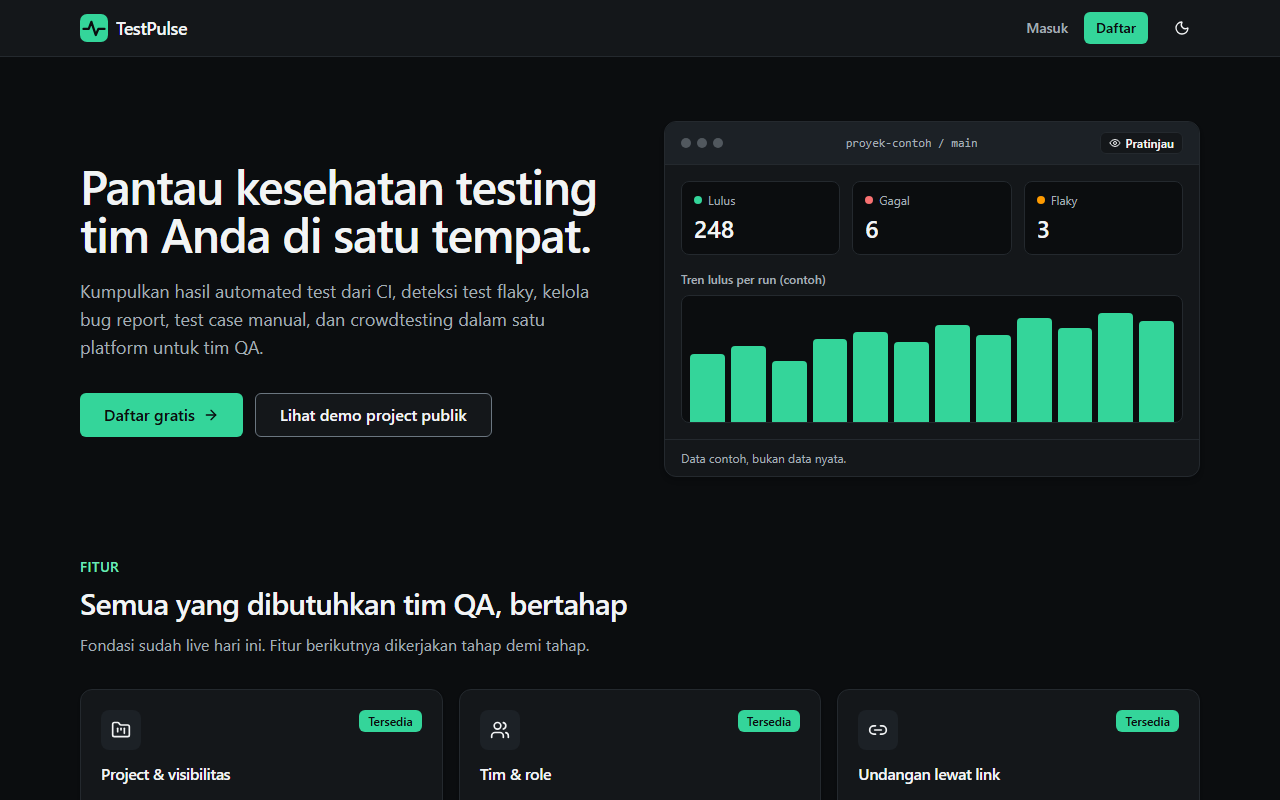
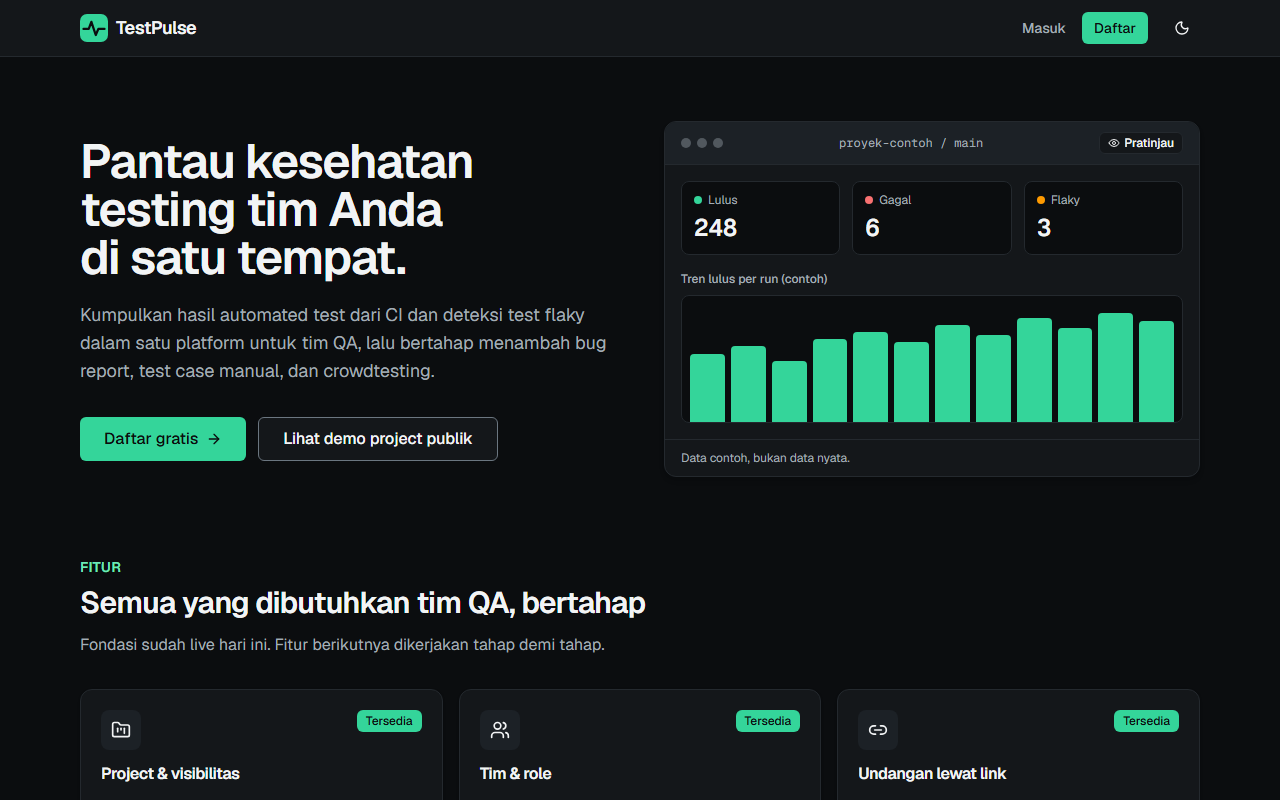
feat(web): self-hosted Geist and Geist Mono fonts

diff --git a/tests/e2e/fonts.spec.ts b/tests/e2e/fonts.spec.ts
@@ -1,0 +1,34 @@
+import { expect, test } from "../support/fixtures.js";
+
+// Font di-host sendiri (@fontsource-variable): file .woff2 disajikan dari origin yang sama,
+// sehingga lolos CSP (`default-src 'self'`) tanpa mengubah header. Gate CSP di fixture ikut membuktikannya.
+test.describe("Tipografi", () => {
+  test("body memakai Geist dan font benar-benar termuat", async ({ page }) => {
+    await page.goto("/login");
+    await expect(page.getByTestId("login-email")).toBeVisible();
+
+    const family = await page.evaluate(() => getComputedStyle(document.body).fontFamily);
+    expect(family).toContain("Geist Variable");
+
+    // Pastikan font (bukan cadangan sistem) memang termuat dari origin sendiri.
+    await expect.poll(() => page.evaluate(async () => {
+      await document.fonts.ready;
+      return document.fonts.check('16px "Geist Variable"');
+    })).toBe(true);
+  });
+
+  test("teks teknis (slug di landing) memakai Geist Mono", async ({ page }) => {
+    await page.goto("/");
+    await expect(page.getByTestId("landing-hero")).toBeVisible();
+
+    const mono = page.getByTestId("landing-hero").locator(".font-mono").first();
+    await expect(mono).toBeVisible();
+    const family = await mono.evaluate((el) => getComputedStyle(el).fontFamily);
+    expect(family).toContain("Geist Mono Variable");
+
+    await expect.poll(() => page.evaluate(async () => {
+      await document.fonts.ready;
+      return document.fonts.check('12px "Geist Mono Variable"');
+    })).toBe(true);
+  });
+});

diff --git a/apps/web/src/index.css b/apps/web/src/index.css
@@ -1,3 +1,7 @@
+/* Font di-host sendiri: file .woff2 ikut ter-build dan disajikan dari origin TestPulse, sehingga lolos CSP
+   (`default-src 'self'`) tanpa Google Fonts. Varian variable = satu file untuk semua ketebalan. */
+@import "@fontsource-variable/geist";
+@import "@fontsource-variable/geist-mono";
 @import "tailwindcss";
 
 @custom-variant dark (&:where(.dark, .dark *));
@@ -80,7 +84,8 @@
   --radius-md: calc(var(--radius) - 2px);
   --radius-lg: var(--radius);
   --radius-xl: calc(var(--radius) + 4px);
-  --font-sans: system-ui, -apple-system, "Segoe UI", Roboto, "Helvetica Neue", Arial, sans-serif;
+  --font-sans: "Geist Variable", system-ui, -apple-system, "Segoe UI", Roboto, "Helvetica Neue", Arial, sans-serif;
+  --font-mono: "Geist Mono Variable", ui-monospace, SFMono-Regular, Menlo, Consolas, "Liberation Mono", monospace;
 }
 
 @layer base {

diff --git a/apps/web/src/pages/landing/Roadmap.tsx b/apps/web/src/pages/landing/Roadmap.tsx
@@ -34,7 +34,7 @@ export function Roadmap() {
               </span>
               <div className="min-w-0 pt-0.5">
                 <p className="flex flex-wrap items-center gap-2">
-                  <span className="text-sm font-semibold">Tahap {item.stage}</span>
+                  <span className="font-mono text-sm font-semibold">Tahap {item.stage}</span>
                   <Badge variant={live ? "default" : item.status === "Berikutnya" ? "secondary" : "outline"}>
                     {item.status}
                   </Badge>

diff --git a/apps/web/src/pages/landing/Quality.tsx b/apps/web/src/pages/landing/Quality.tsx
@@ -81,7 +81,7 @@ export function Quality() {
               {SNAPSHOT.rows.map((row) => (
                 <div key={row.label} className="min-w-0">
                   <dt className="text-xs text-muted-foreground">{row.label}</dt>
-                  <dd className="text-xl font-semibold tabular-nums">{row.value}</dd>
+                  <dd className="font-mono text-xl font-semibold tabular-nums">{row.value}</dd>
                 </div>
               ))}
             </dl>

diff --git a/apps/web/src/pages/landing/Hero.tsx b/apps/web/src/pages/landing/Hero.tsx
@@ -55,7 +55,7 @@ function DashboardPreview() {
                 <span aria-hidden="true" className={`size-2 shrink-0 rounded-full ${stat.dot}`} />
                 {stat.label}
               </dt>
-              <dd className="mt-1 text-xl font-semibold tabular-nums sm:text-2xl">{stat.value}</dd>
+              <dd className="mt-1 font-mono text-xl font-semibold tabular-nums sm:text-2xl">{stat.value}</dd>
             </div>
           ))}
         </dl>
